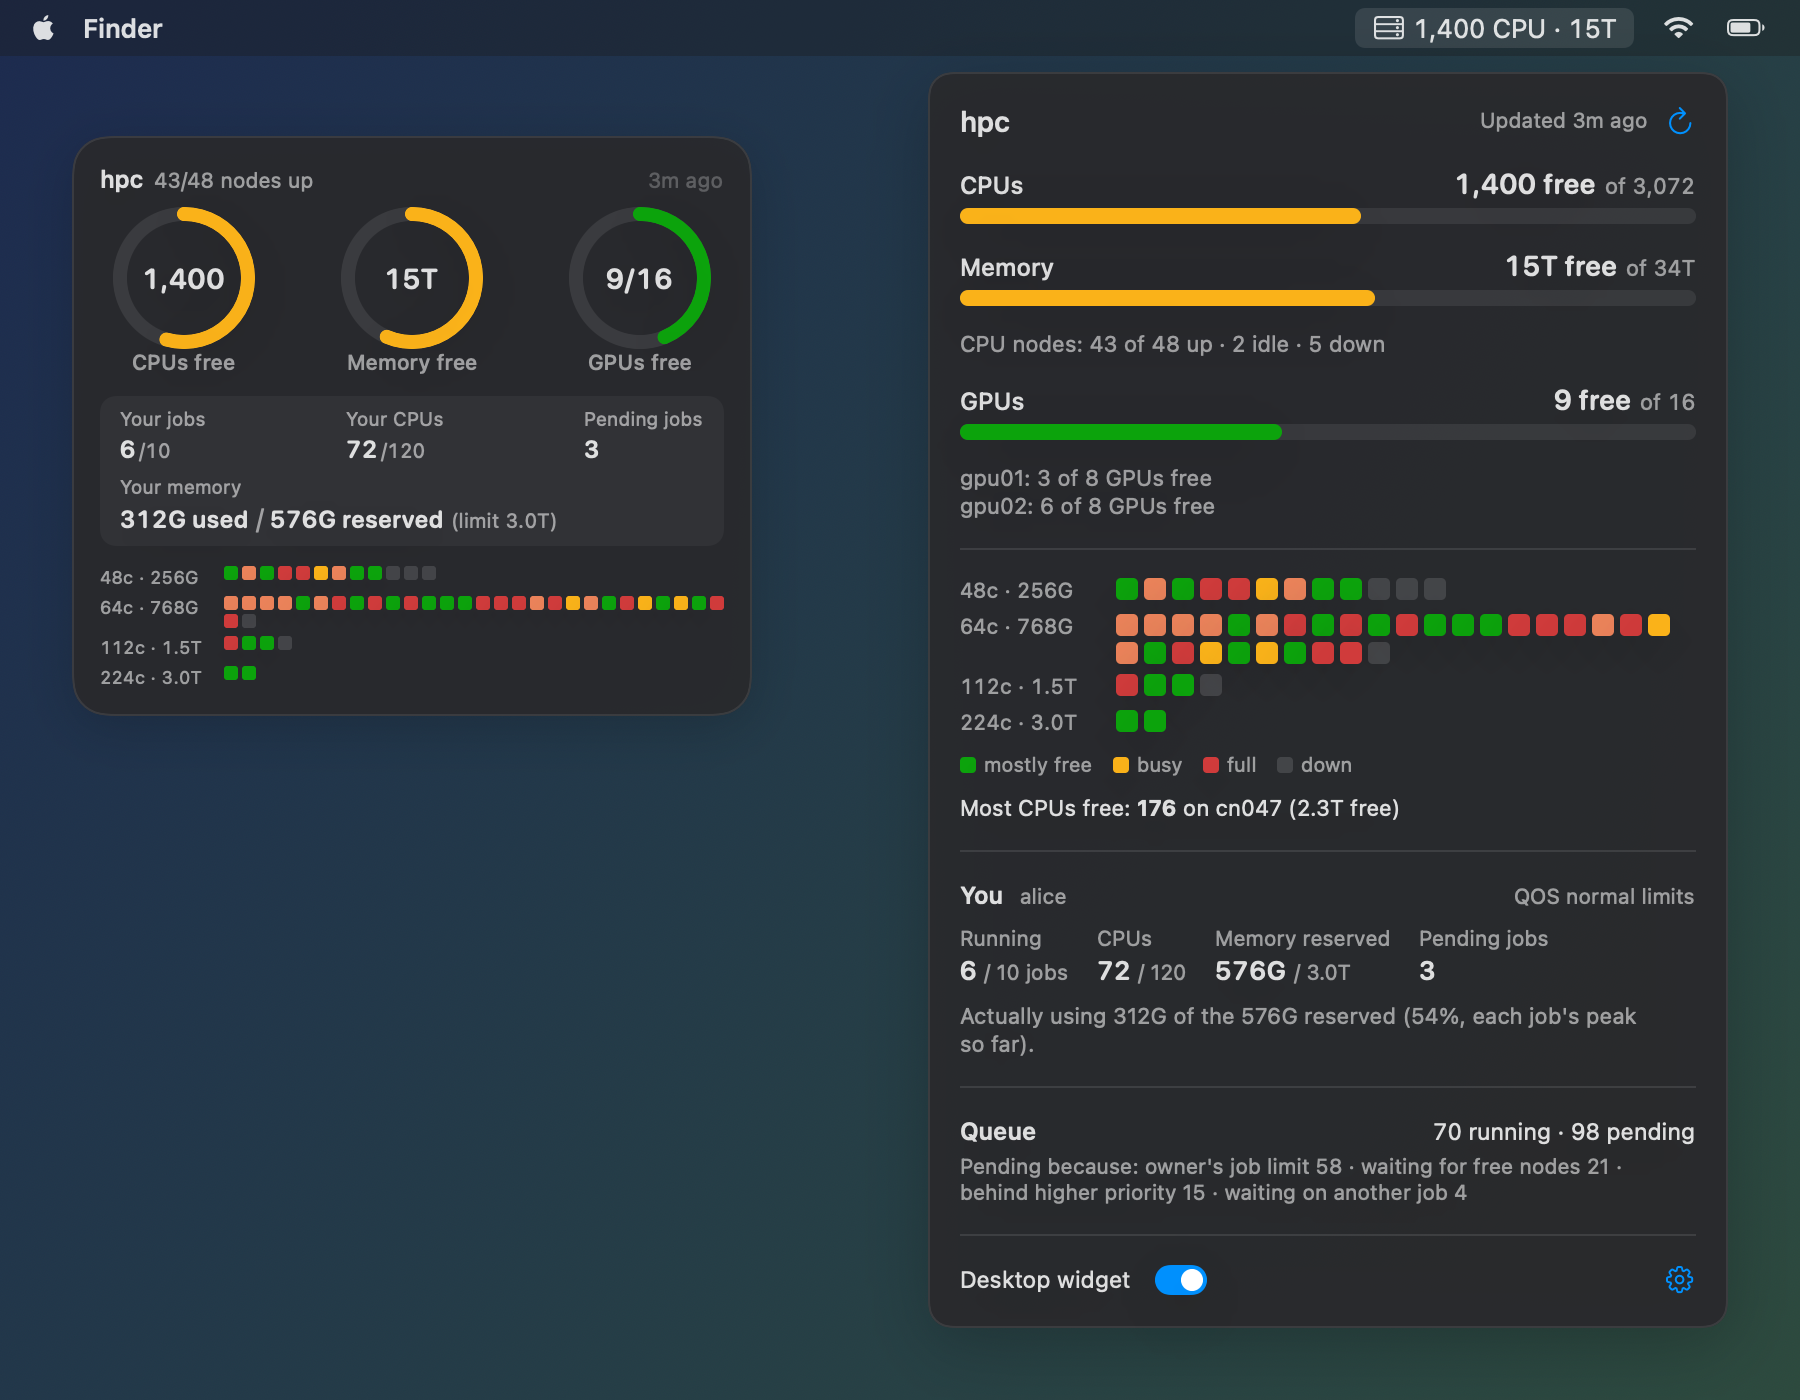
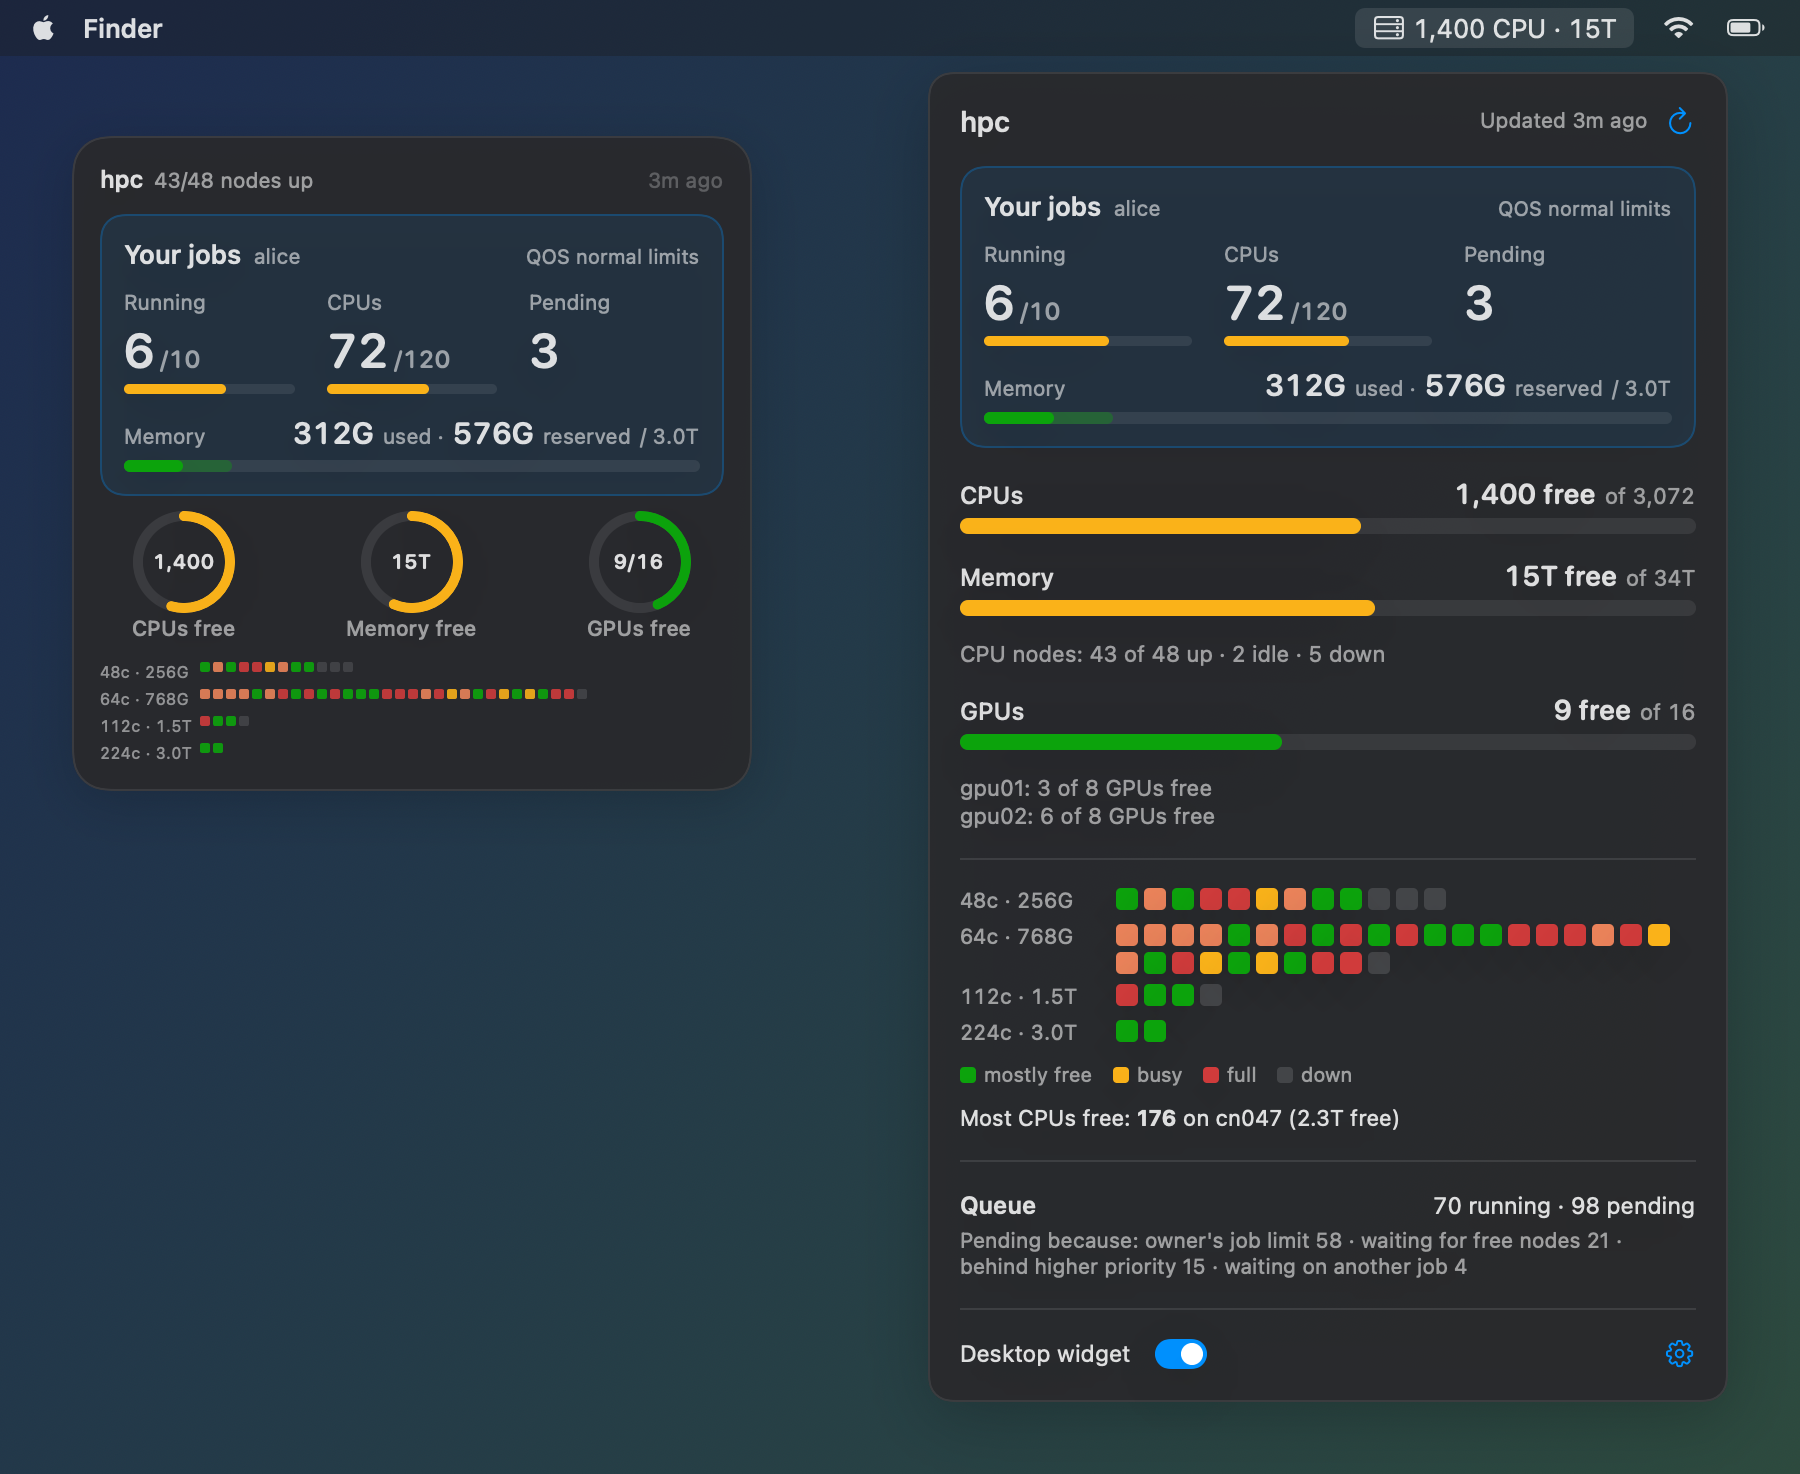
Put your jobs front and center
A prominent card with running jobs, CPUs and pending jobs in large type, bars against your per-user limits, and memory used vs reserved on one bar. Cluster rings and the node map are smaller in the widget. Pending reason "None" reads as "about to start".

diff --git a/Sources/YourJobs.swift b/Sources/YourJobs.swift
@@ -1,0 +1,105 @@
+import SwiftUI
+
+/// The user's own jobs against their per-user limits — the part people check most, so it's prominent.
+struct YourJobsCard: View {
+    let snapshot: ClusterSnapshot
+
+    var body: some View {
+        let s = snapshot, l = s.limits
+        VStack(alignment: .leading, spacing: 10) {
+            HStack(alignment: .firstTextBaseline, spacing: 6) {
+                Text("Your jobs").font(.system(size: 13, weight: .semibold))
+                Text(s.user).font(.system(size: 10.5)).foregroundStyle(.secondary)
+                Spacer(minLength: 0)
+                if let q = l?.qos {
+                    Text("QOS \(q) limits").font(.system(size: 10)).foregroundStyle(.secondary)
+                }
+            }
+            HStack(alignment: .top, spacing: 16) {
+                BigStat(label: "Running", value: "\(s.myRunning.count)", limit: l?.maxJobs,
+                        fraction: l?.maxJobs.map { Double(s.myRunning.count) / Double(max($0, 1)) })
+                BigStat(label: "CPUs", value: "\(s.myCPU)", limit: l?.maxCPU,
+                        fraction: l?.maxCPU.map { Double(s.myCPU) / Double(max($0, 1)) })
+                BigStat(label: "Pending", value: "\(s.myPending.count)", limit: nil, fraction: nil)
+            }
+            memory(s)
+        }
+        .padding(12)
+        .background(Color.accentColor.opacity(0.09), in: RoundedRectangle(cornerRadius: 12, style: .continuous))
+        .overlay(RoundedRectangle(cornerRadius: 12, style: .continuous)
+            .strokeBorder(Color.accentColor.opacity(0.25), lineWidth: 1))
+    }
+
+    private func memory(_ s: ClusterSnapshot) -> some View {
+        let limit = s.limits?.maxMem
+        return VStack(alignment: .leading, spacing: 4) {
+            HStack(alignment: .firstTextBaseline, spacing: 4) {
+                Text("Memory").font(.system(size: 10.5)).foregroundStyle(.secondary)
+                Spacer(minLength: 4)
+                if let used = s.myMemUsed {
+                    Text(Fmt.mem(used)).font(.system(size: 15, weight: .semibold, design: .rounded))
+                    Text("used ·").font(.system(size: 10.5)).foregroundStyle(.secondary)
+                }
+                Text(Fmt.mem(s.myMem)).font(.system(size: 15, weight: .semibold, design: .rounded))
+                Text("reserved").font(.system(size: 10.5)).foregroundStyle(.secondary)
+                if let limit {
+                    Text("/ \(Fmt.mem(limit))").font(.system(size: 10.5)).foregroundStyle(.secondary)
+                }
+            }
+            .monospacedDigit()
+            .lineLimit(1)
+            .minimumScaleFactor(0.8)
+            MemoryBar(used: s.myMemUsed, reserved: s.myMem, scale: limit ?? max(s.myMem, 1))
+        }
+        .help("Used = the sum of each running job's peak memory so far (sstat MaxRSS). Reserved = the memory your jobs requested, which SLURM holds for them. The bar runs up to your per-user limit.")
+    }
+}
+
+/// A big number with its limit and a thin bar underneath.
+private struct BigStat: View {
+    let label: String
+    let value: String
+    let limit: Int?
+    let fraction: Double?
+
+    var body: some View {
+        VStack(alignment: .leading, spacing: 3) {
+            Text(label).font(.system(size: 10.5)).foregroundStyle(.secondary)
+            HStack(alignment: .firstTextBaseline, spacing: 2) {
+                Text(value).font(.system(size: 24, weight: .semibold, design: .rounded))
+                if let limit {
+                    Text("/\(limit)").font(.system(size: 12, weight: .medium, design: .rounded)).foregroundStyle(.secondary)
+                }
+            }
+            .monospacedDigit()
+            if let fraction {
+                UsageBar(fraction: fraction, height: 5)
+            } else {
+                Color.clear.frame(height: 5)
+            }
+        }
+        .frame(maxWidth: .infinity, alignment: .leading)
+    }
+}
+
+/// Reserved memory as a light fill, actually-used memory as a solid fill inside it.
+private struct MemoryBar: View {
+    let used: Double?
+    let reserved: Double
+    let scale: Double
+
+    var body: some View {
+        GeometryReader { geo in
+            let w = geo.size.width
+            let r = min(reserved / scale, 1)
+            ZStack(alignment: .leading) {
+                Capsule().fill(Color.primary.opacity(0.09))
+                Capsule().fill(Palette.status(r * 100).opacity(0.35)).frame(width: w * r)
+                if let used {
+                    Capsule().fill(Palette.status(r * 100)).frame(width: w * min(used / scale, r))
+                }
+            }
+        }
+        .frame(height: 6)
+    }
+}

diff --git a/Sources/Widget.swift b/Sources/Widget.swift
@@ -129,21 +129,22 @@ struct WidgetView: View {
             }
 
             if let s = store.snapshot {
+                YourJobsCard(snapshot: s)
                 HStack(alignment: .top, spacing: 0) {
                     Ring(used: s.cpuTotal > 0 ? 1 - Double(s.cpuFree) / Double(s.cpuTotal) : 0,
-                         center: Fmt.count(s.cpuFree), label: "CPUs free")
+                         center: Fmt.count(s.cpuFree), label: "CPUs free", size: 46, line: 5)
                     Spacer(minLength: 0)
                     Ring(used: s.memTotal > 0 ? 1 - s.memFree / s.memTotal : 0,
-                         center: Fmt.mem(s.memFree), label: "Memory free")
+                         center: Fmt.mem(s.memFree), label: "Memory free", size: 46, line: 5)
                     if !s.gpuNodes.isEmpty {
                         Spacer(minLength: 0)
                         Ring(used: s.gpuTotal > 0 ? 1 - Double(s.gpuFree) / Double(s.gpuTotal) : 1,
-                             center: "\(s.gpuFree)/\(s.gpuTotal)", label: "GPUs free")
+                             center: "\(s.gpuFree)/\(s.gpuTotal)", label: "GPUs free", size: 46, line: 5)
                     }
                 }
-                .padding(.horizontal, 10)
-                you(s)
-                NodeMap(snapshot: s, width: width - 2 * padding, cell: 7, gap: 2, labelWidth: 62, labelSize: 9, hover: $hover)
+                .padding(.horizontal, 16)
+                NodeMap(snapshot: s, width: width - 2 * padding, cell: 5, gap: 1.5, labelWidth: 50, labelSize: 8, hover: $hover)
+                    .opacity(0.9)
                 if let hover {
                     Text(hover).font(.system(size: 10)).foregroundStyle(.secondary).lineLimit(1)
                 }
@@ -177,49 +178,6 @@ struct WidgetView: View {
             Divider()
             Button("Hide widget (double-click the app to show again)") { WidgetController.shared.hide() }
             Button("Quit SLURM Meter") { NSApp.terminate(nil) }
-        }
-    }
-
-    /// The user's own usage against their per-user limits.
-    private func you(_ s: ClusterSnapshot) -> some View {
-        VStack(alignment: .leading, spacing: 6) {
-            HStack(spacing: 0) {
-                stat("Your jobs", "\(s.myRunning.count)", s.limits?.maxJobs.map { "/\($0)" })
-                Spacer(minLength: 0)
-                stat("Your CPUs", "\(s.myCPU)", s.limits?.maxCPU.map { "/\($0)" })
-                Spacer(minLength: 0)
-                stat("Pending jobs", "\(s.myPending.count)", nil)
-            }
-            VStack(alignment: .leading, spacing: 1) {
-                Text("Your memory").font(.system(size: 9.5)).foregroundStyle(.secondary)
-                HStack(alignment: .firstTextBaseline, spacing: 3) {
-                    if let used = s.myMemUsed {
-                        Text("\(Fmt.mem(used)) used").font(.system(size: 12, weight: .semibold, design: .rounded))
-                        Text("/").foregroundStyle(.secondary)
-                    }
-                    Text("\(Fmt.mem(s.myMem)) reserved").font(.system(size: 12, weight: .semibold, design: .rounded))
-                    if let max = s.limits?.maxMem {
-                        Text("(limit \(Fmt.mem(max)))").font(.system(size: 10)).foregroundStyle(.secondary)
-                    }
-                }
-                .monospacedDigit()
-            }
-            .help("Used = the sum of each running job's peak memory so far (sstat MaxRSS). Reserved = the memory your jobs requested, which SLURM holds for them.")
-        }
-        .padding(.vertical, 6)
-        .padding(.horizontal, 10)
-        .frame(maxWidth: .infinity, alignment: .leading)
-        .background(Color.primary.opacity(0.05), in: RoundedRectangle(cornerRadius: 8, style: .continuous))
-    }
-
-    private func stat(_ label: String, _ value: String, _ limit: String?) -> some View {
-        VStack(alignment: .leading, spacing: 1) {
-            Text(label).font(.system(size: 9.5)).foregroundStyle(.secondary)
-            HStack(alignment: .firstTextBaseline, spacing: 1) {
-                Text(value).font(.system(size: 12, weight: .semibold, design: .rounded))
-                if let limit { Text(limit).font(.system(size: 10)).foregroundStyle(.secondary) }
-            }
-            .monospacedDigit()
         }
     }
 }

diff --git a/Sources/PopoverView.swift b/Sources/PopoverView.swift
@@ -12,11 +12,10 @@ struct PopoverView: View {
         VStack(alignment: .leading, spacing: 14) {
             header
             if let s = store.snapshot {
+                YourJobsCard(snapshot: s)
                 resources(s)
                 Divider()
                 nodes(s)
-                Divider()
-                you(s)
                 Divider()
                 queue(s)
             } else if store.needsSetup {
@@ -131,44 +130,6 @@ struct PopoverView: View {
                 }
             }
             .font(.system(size: 11))
-        }
-    }
-
-    // MARK: You
-
-    private func you(_ s: ClusterSnapshot) -> some View {
-        VStack(alignment: .leading, spacing: 8) {
-            HStack(alignment: .firstTextBaseline) {
-                Text("You").font(.system(size: 12, weight: .semibold))
-                Text(s.user).font(.system(size: 10.5)).foregroundStyle(.secondary)
-                Spacer()
-                if let q = s.limits?.qos {
-                    Text("QOS \(q) limits").font(.system(size: 10.5)).foregroundStyle(.secondary)
-                }
-            }
-            Grid(alignment: .leading, horizontalSpacing: 14, verticalSpacing: 4) {
-                GridRow {
-                    stat("Running", "\(s.myRunning.count)", s.limits?.maxJobs.map { "/ \($0) jobs" } ?? "jobs")
-                    stat("CPUs", "\(s.myCPU)", s.limits?.maxCPU.map { "/ \($0)" } ?? "")
-                    stat("Memory reserved", Fmt.mem(s.myMem), s.limits?.maxMem.map { "/ \(Fmt.mem($0))" } ?? "")
-                    stat("Pending jobs", "\(s.myPending.count)", "")
-                }
-            }
-            if let used = s.myMemUsed, s.myMem > 0 {
-                Text("Actually using \(Fmt.mem(used)) of the \(Fmt.mem(s.myMem)) reserved (\(Int((used / s.myMem * 100).rounded()))%, each job's peak so far).")
-                    .font(.system(size: 11)).foregroundStyle(.secondary)
-                    .fixedSize(horizontal: false, vertical: true)
-            }
-        }
-    }
-
-    private func stat(_ label: String, _ value: String, _ suffix: String) -> some View {
-        VStack(alignment: .leading, spacing: 1) {
-            Text(label).font(.system(size: 10.5)).foregroundStyle(.secondary)
-            HStack(alignment: .firstTextBaseline, spacing: 3) {
-                Text(value).font(.system(size: 13, weight: .semibold, design: .rounded)).monospacedDigit()
-                Text(suffix).font(.system(size: 10.5)).foregroundStyle(.secondary)
-            }
         }
     }
 

diff --git a/Sources/Cluster.swift b/Sources/Cluster.swift
@@ -121,6 +121,7 @@ struct ClusterSnapshot: Sendable {
         case "JobArrayTaskLimit": return "array throttle (%)"
         case "JobHeldUser", "JobHeldAdmin": return "held"
         case "BeginTime": return "scheduled for later"
+        case "None": return "about to start"
         case "DependencyNeverSatisfied": return "dependency failed"
         default: return r.hasPrefix("ReqNodeNotAvail") ? "requested nodes unavailable" : r
         }

diff --git a/README.md b/README.md
@@ -11,10 +11,10 @@ A tiny native macOS menu bar app + desktop widget that shows how busy your **SLU
 
 ## Features
 
+- **Your jobs, front and center** — running jobs, CPUs and pending jobs in large type, with bars against your QOS per-user limits. Memory shows both what your running jobs actually **use** (sum of each job's peak so far, from `sstat`) and what they **reserve**, on one bar up to your limit.
 - **Menu bar** — free CPUs and memory at a glance: `1,400 CPU · 15T`.
 - **Free resources** — CPUs, memory and GPUs that SLURM can still allocate on nodes accepting jobs. Memory is `RealMemory − AllocMem` (what the scheduler sees), not the OS's free memory.
 - **Node map** — one square per node, one row per node type (`64c · 768G`). Color shows how allocated the node is (CPU or memory, whichever is higher): green < 50%, yellow < 75%, orange < 90%, red ≥ 90%, gray = down. Hover for details.
-- **You** — your running jobs, CPUs and memory against your QOS per-user limits, and your pending jobs. Memory shows both what your running jobs actually **use** (sum of each job's peak so far, from `sstat`) and what they **reserve**.
 - **Queue** — running / pending jobs and why jobs are pending.
 - **Desktop widget** — sits on the desktop behind your windows; right-click for always-on-top, settings, hide, or quit. Drag to move. Double-click the app to bring a hidden widget back.
 - Refreshes every 10 minutes (5 / 10 / 30 in the gear menu), on wake, and when you open the popover if the data is over 2 minutes old. Keeps showing the last data if the cluster can't be reached.
@@ -67,7 +67,7 @@ build/SlurmMeter.app/Contents/MacOS/SlurmMeter --snapshot out --demo  # render s
 |---|---|
 | `Sources/Cluster.swift` | SSH call, parsing of `scontrol` / `squeue` / `sacctmgr` / `sstat`, derived numbers |
 | `Sources/ClusterStore.swift` | refresh timer, settings, app state |
-| `Sources/PopoverView.swift`, `Widget.swift`, `NodeMap.swift`, `Support.swift` | UI |
+| `Sources/YourJobs.swift`, `PopoverView.swift`, `Widget.swift`, `NodeMap.swift`, `Support.swift` | UI |
 | `Sources/Snapshot.swift` | screenshot / demo mode |
 
 ## License
